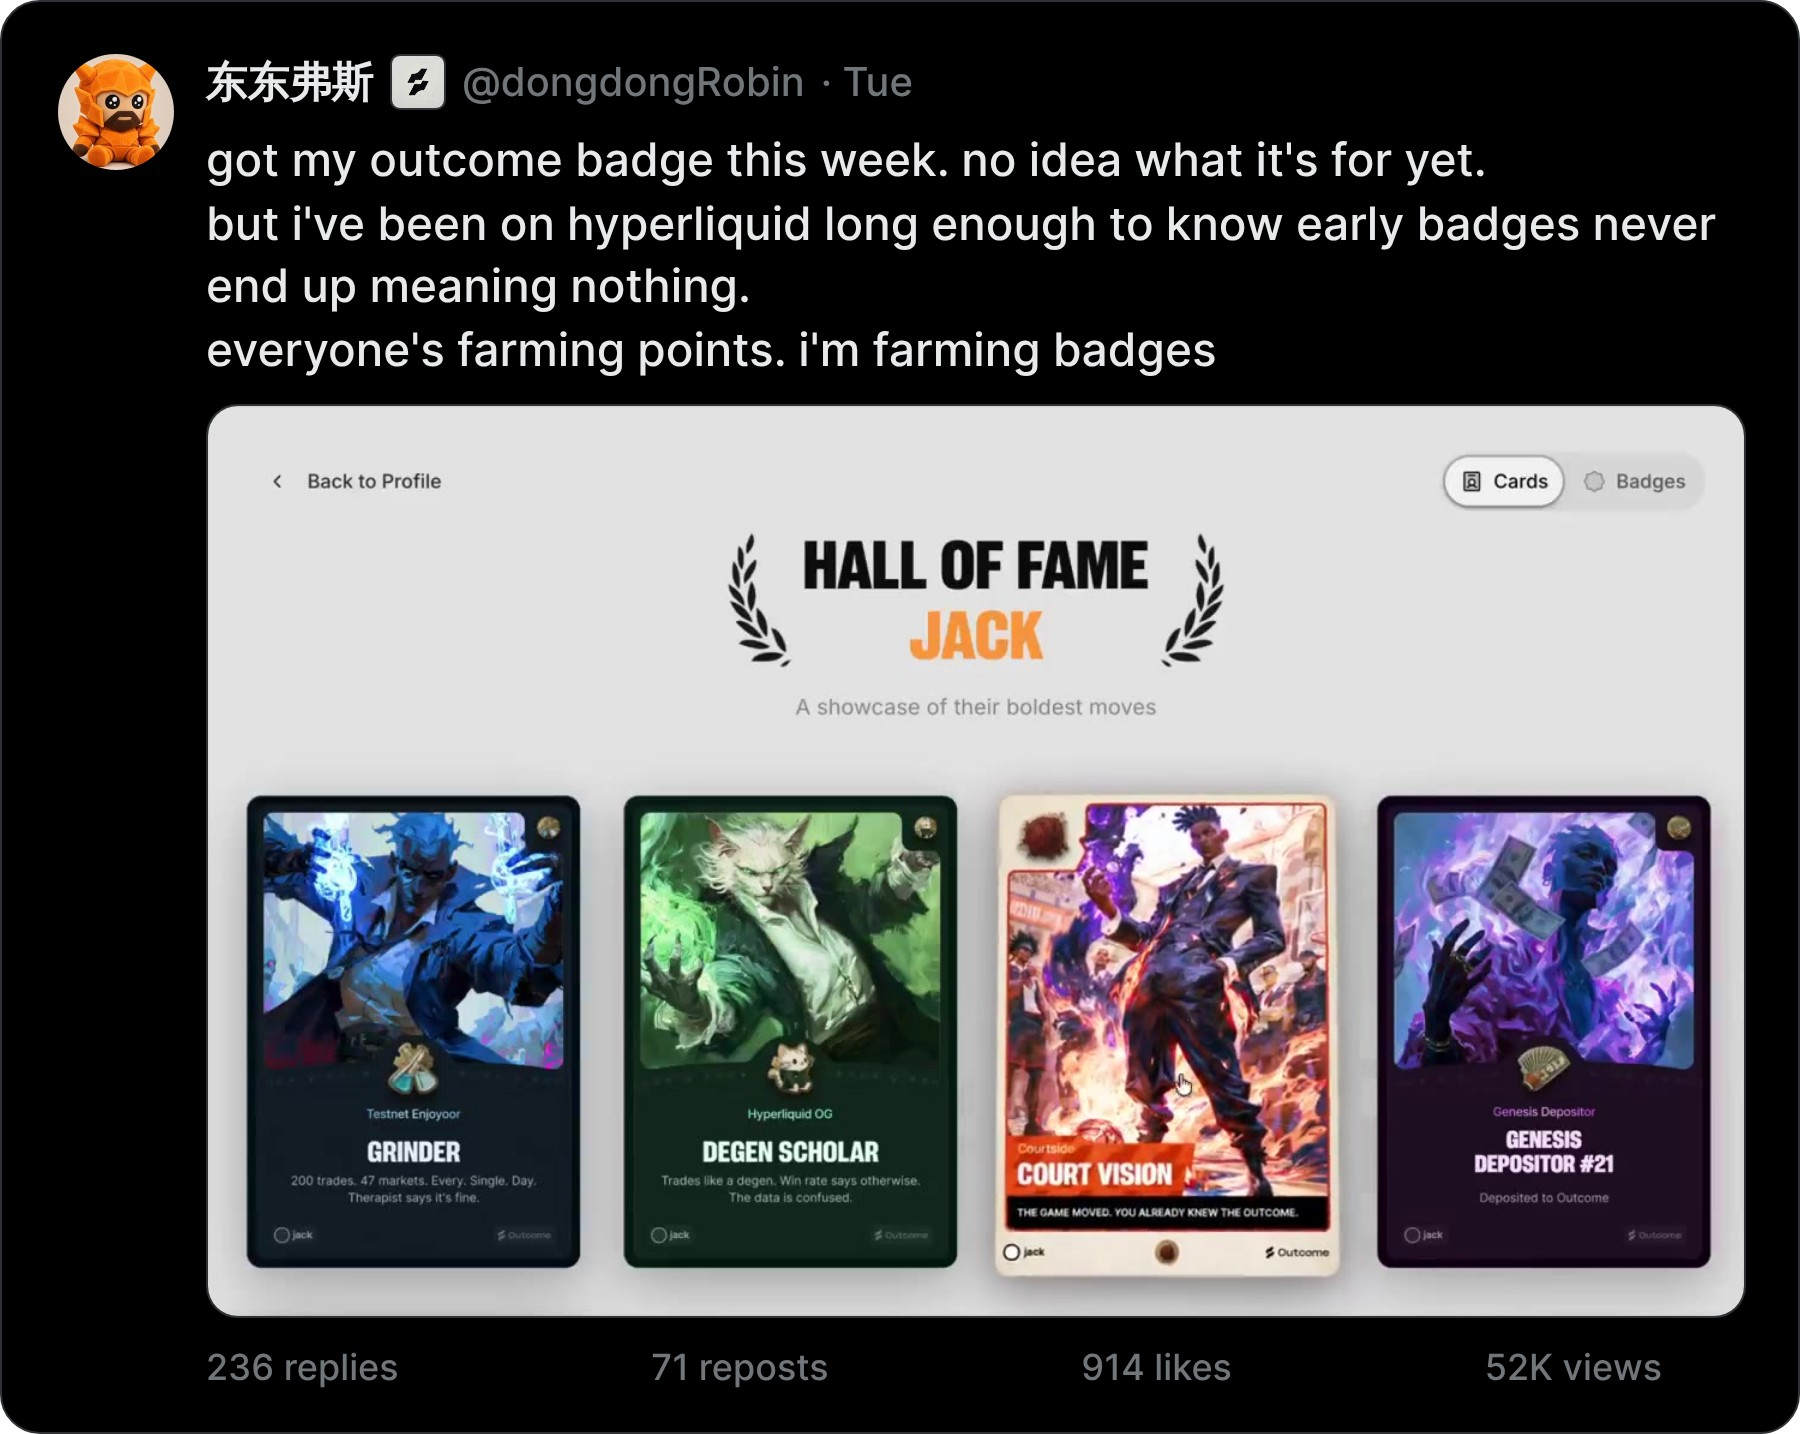
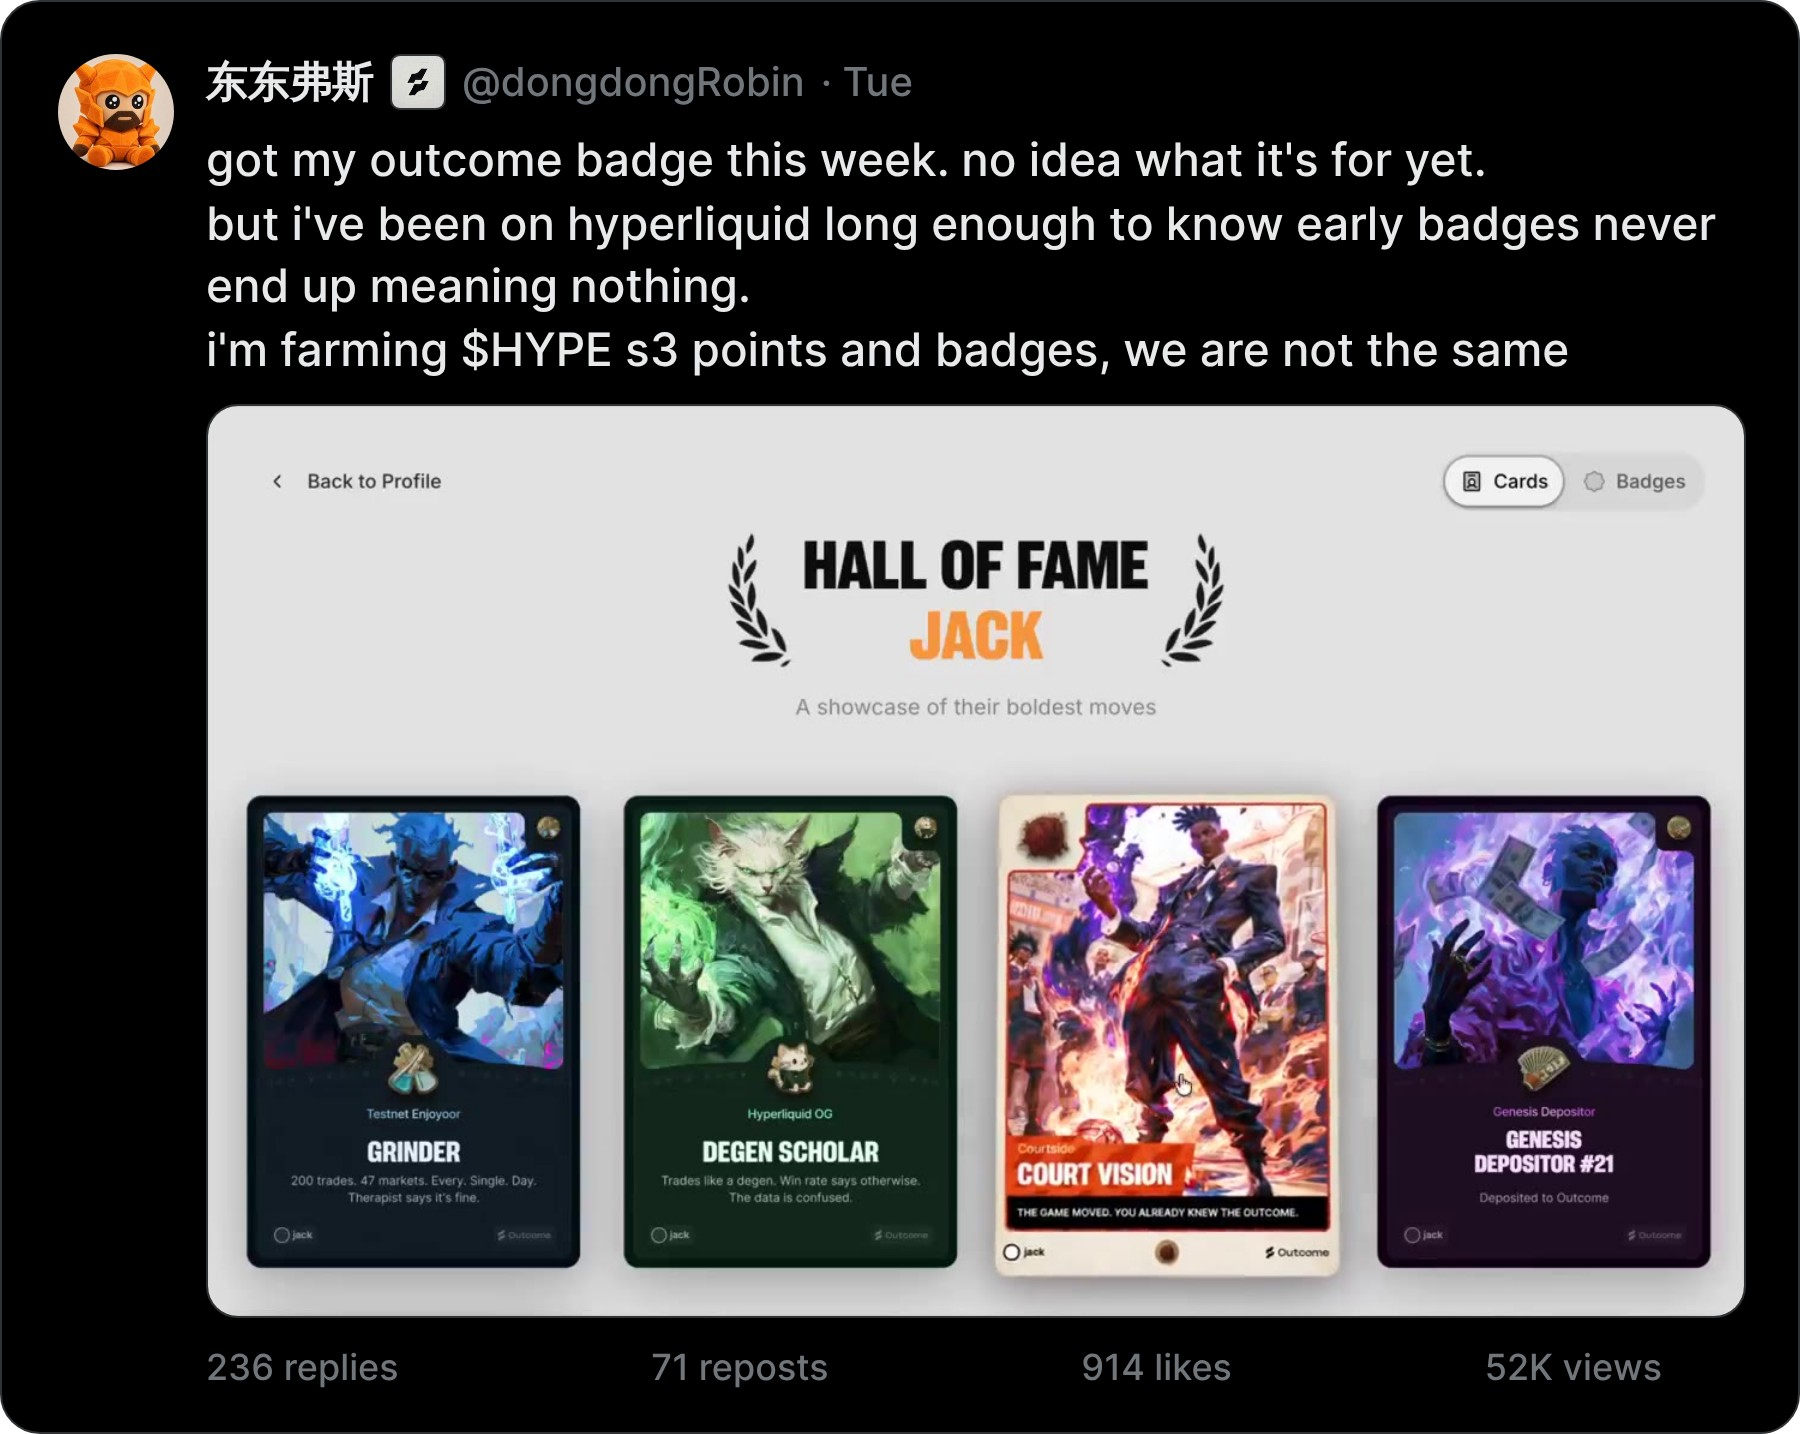
Community decks: HYPE S3 points and badges line
Claude-Session: https://claude.ai/code/session_014PU9ujy91VW7m4JZPWrTgt

Changed region(s): [[0.1244, 0.2148, 0.8711, 0.2762]]

diff --git a/deck/obesepotato_hl/index.html b/deck/obesepotato_hl/index.html
@@ -113,7 +113,7 @@ section img[src$="wm.png"]{pointer-events:none}
 <h2 style="font-family:'PP Neue Corp Narrow', Impact, sans-serif;font-weight:800;font-size:110px;line-height:0.88;text-transform:uppercase;color:#F5F8FF">Your voice. Your words.</h2>
 </div>
 <div style="display:flex;gap:64px;align-items:flex-start">
-<img src="/deck/obesepotato_hl/post_peek1.jpg" alt="Mock post by obese.potato: got my outcome badge this week, no idea what it’s for yet, early badges never end up meaning nothing, everyone’s farming points, i’m farming badges, with the Hall of Fame cards" style="width:736px;height:588px;object-fit:contain;border-radius:20px">
+<img src="/deck/obesepotato_hl/post_peek1.jpg" alt="Mock post by obese.potato: got my outcome badge this week, no idea what it’s for yet, early badges never end up meaning nothing, i’m farming $HYPE s3 points and badges, we are not the same, with the Hall of Fame cards" style="width:736px;height:588px;object-fit:contain;border-radius:20px">
 <img src="/deck/obesepotato_hl/post_peek2.jpg" alt="Mock post by obese.potato quoting Outcome’s Anthropic IPO strategies post: been running exactly this since the s-1 dropped, already locked in 30% on the anthropic ipo before it has started trading, still longing it naked? enjoy the coin flip" style="width:736px;height:588px;object-fit:contain;border-radius:20px">
 </div>
 <img src="/deck/_shared/logo_light.png" alt="Outcome" style="position:absolute;left:128px;bottom:64px;width:150px;height:34px;object-fit:contain">

diff --git a/deck/dongdongrobin/index.html b/deck/dongdongrobin/index.html
@@ -113,7 +113,7 @@ section img[src$="wm.png"]{pointer-events:none}
 <h2 style="font-family:'PP Neue Corp Narrow', Impact, sans-serif;font-weight:800;font-size:110px;line-height:0.88;text-transform:uppercase;color:#F5F8FF">Your voice. Your words.</h2>
 </div>
 <div style="display:flex;gap:64px;align-items:flex-start">
-<img src="/deck/dongdongrobin/post_peek1.jpg" alt="Mock post by 东东弗斯: got my outcome badge this week, no idea what it’s for yet, early badges never end up meaning nothing, everyone’s farming points, i’m farming badges, with the Hall of Fame cards" style="width:736px;height:588px;object-fit:contain;border-radius:20px">
+<img src="/deck/dongdongrobin/post_peek1.jpg" alt="Mock post by 东东弗斯: got my outcome badge this week, no idea what it’s for yet, early badges never end up meaning nothing, i’m farming $HYPE s3 points and badges, we are not the same, with the Hall of Fame cards" style="width:736px;height:588px;object-fit:contain;border-radius:20px">
 <img src="/deck/dongdongrobin/post_peek2.jpg" alt="Mock post by 东东弗斯 quoting Outcome’s Anthropic IPO strategies post: been running exactly this since the s-1 dropped, already locked in 30% on the anthropic ipo before it has started trading, still longing it naked? enjoy the coin flip" style="width:736px;height:588px;object-fit:contain;border-radius:20px">
 </div>
 <img src="/deck/_shared/logo_light.png" alt="Outcome" style="position:absolute;left:128px;bottom:64px;width:150px;height:34px;object-fit:contain">

diff --git a/deck/hypeconomist/index.html b/deck/hypeconomist/index.html
@@ -113,7 +113,7 @@ section img[src$="wm.png"]{pointer-events:none}
 <h2 style="font-family:'PP Neue Corp Narrow', Impact, sans-serif;font-weight:800;font-size:110px;line-height:0.88;text-transform:uppercase;color:#F5F8FF">Your voice. Your words.</h2>
 </div>
 <div style="display:flex;gap:64px;align-items:flex-start">
-<img src="/deck/hypeconomist/post_peek1.jpg" alt="Mock post by HYPEconomist: got my outcome badge this week, no idea what it’s for yet, early badges never end up meaning nothing, everyone’s farming points, i’m farming badges, with the Hall of Fame cards" style="width:736px;height:588px;object-fit:contain;border-radius:20px">
+<img src="/deck/hypeconomist/post_peek1.jpg" alt="Mock post by HYPEconomist: got my outcome badge this week, no idea what it’s for yet, early badges never end up meaning nothing, i’m farming $HYPE s3 points and badges, we are not the same, with the Hall of Fame cards" style="width:736px;height:588px;object-fit:contain;border-radius:20px">
 <img src="/deck/hypeconomist/post_peek2.jpg" alt="Mock post by HYPEconomist quoting Outcome’s Anthropic IPO strategies post: been running exactly this since the s-1 dropped, already locked in 30% on the anthropic ipo before it has started trading, still longing it naked? enjoy the coin flip" style="width:736px;height:588px;object-fit:contain;border-radius:20px">
 </div>
 <img src="/deck/_shared/logo_light.png" alt="Outcome" style="position:absolute;left:128px;bottom:64px;width:150px;height:34px;object-fit:contain">

diff --git a/deck/buyingvol/index.html b/deck/buyingvol/index.html
@@ -113,7 +113,7 @@ section img[src$="wm.png"]{pointer-events:none}
 <h2 style="font-family:'PP Neue Corp Narrow', Impact, sans-serif;font-weight:800;font-size:110px;line-height:0.88;text-transform:uppercase;color:#F5F8FF">Your voice. Your words.</h2>
 </div>
 <div style="display:flex;gap:64px;align-items:flex-start">
-<img src="/deck/buyingvol/post_peek1.jpg" alt="Mock post by That boiii: got my outcome badge this week, no idea what it’s for yet, early badges never end up meaning nothing, everyone’s farming points, i’m farming badges, with the Hall of Fame cards" style="width:736px;height:588px;object-fit:contain;border-radius:20px">
+<img src="/deck/buyingvol/post_peek1.jpg" alt="Mock post by That boiii: got my outcome badge this week, no idea what it’s for yet, early badges never end up meaning nothing, i’m farming $HYPE s3 points and badges, we are not the same, with the Hall of Fame cards" style="width:736px;height:588px;object-fit:contain;border-radius:20px">
 <img src="/deck/buyingvol/post_peek2.jpg" alt="Mock post by That boiii quoting Outcome’s Anthropic IPO strategies post: been running exactly this since the s-1 dropped, already locked in 30% on the anthropic ipo before it has started trading, still longing it naked? enjoy the coin flip" style="width:736px;height:588px;object-fit:contain;border-radius:20px">
 </div>
 <img src="/deck/_shared/logo_light.png" alt="Outcome" style="position:absolute;left:128px;bottom:64px;width:150px;height:34px;object-fit:contain">

diff --git a/deck/pangboygg/index.html b/deck/pangboygg/index.html
@@ -113,7 +113,7 @@ section img[src$="wm.png"]{pointer-events:none}
 <h2 style="font-family:'PP Neue Corp Narrow', Impact, sans-serif;font-weight:800;font-size:110px;line-height:0.88;text-transform:uppercase;color:#F5F8FF">Your voice. Your words.</h2>
 </div>
 <div style="display:flex;gap:64px;align-items:flex-start">
-<img src="/deck/pangboygg/post_peek1.jpg" alt="Mock post by pangboy.hl: got my outcome badge this week, no idea what it’s for yet, early badges never end up meaning nothing, everyone’s farming points, i’m farming badges, with the Hall of Fame cards" style="width:736px;height:588px;object-fit:contain;border-radius:20px">
+<img src="/deck/pangboygg/post_peek1.jpg" alt="Mock post by pangboy.hl: got my outcome badge this week, no idea what it’s for yet, early badges never end up meaning nothing, i’m farming $HYPE s3 points and badges, we are not the same, with the Hall of Fame cards" style="width:736px;height:588px;object-fit:contain;border-radius:20px">
 <img src="/deck/pangboygg/post_peek2.jpg" alt="Mock post by pangboy.hl quoting Outcome’s Anthropic IPO strategies post: been running exactly this since the s-1 dropped, already locked in 30% on the anthropic ipo before it has started trading, still longing it naked? enjoy the coin flip" style="width:736px;height:588px;object-fit:contain;border-radius:20px">
 </div>
 <img src="/deck/_shared/logo_light.png" alt="Outcome" style="position:absolute;left:128px;bottom:64px;width:150px;height:34px;object-fit:contain">

diff --git a/deck/enesonchain/index.html b/deck/enesonchain/index.html
@@ -113,7 +113,7 @@ section img[src$="wm.png"]{pointer-events:none}
 <h2 style="font-family:'PP Neue Corp Narrow', Impact, sans-serif;font-weight:800;font-size:110px;line-height:0.88;text-transform:uppercase;color:#F5F8FF">Your voice. Your words.</h2>
 </div>
 <div style="display:flex;gap:64px;align-items:flex-start">
-<img src="/deck/enesonchain/post_peek1.jpg" alt="Mock post by enes.hl: got my outcome badge this week, no idea what it’s for yet, early badges never end up meaning nothing, everyone’s farming points, i’m farming badges, with the Hall of Fame cards" style="width:736px;height:588px;object-fit:contain;border-radius:20px">
+<img src="/deck/enesonchain/post_peek1.jpg" alt="Mock post by enes.hl: got my outcome badge this week, no idea what it’s for yet, early badges never end up meaning nothing, i’m farming $HYPE s3 points and badges, we are not the same, with the Hall of Fame cards" style="width:736px;height:588px;object-fit:contain;border-radius:20px">
 <img src="/deck/enesonchain/post_peek2.jpg" alt="Mock post by enes.hl quoting Outcome’s Anthropic IPO strategies post: been running exactly this since the s-1 dropped, already locked in 30% on the anthropic ipo before it has started trading, still longing it naked? enjoy the coin flip" style="width:736px;height:588px;object-fit:contain;border-radius:20px">
 </div>
 <img src="/deck/_shared/logo_light.png" alt="Outcome" style="position:absolute;left:128px;bottom:64px;width:150px;height:34px;object-fit:contain">

diff --git a/deck/vexter/index.html b/deck/vexter/index.html
@@ -113,7 +113,7 @@ section img[src$="wm.png"]{pointer-events:none}
 <h2 style="font-family:'PP Neue Corp Narrow', Impact, sans-serif;font-weight:800;font-size:110px;line-height:0.88;text-transform:uppercase;color:#F5F8FF">Your voice. Your words.</h2>
 </div>
 <div style="display:flex;gap:64px;align-items:flex-start">
-<img src="/deck/vexter/post_peek1.jpg" alt="Mock post by 0xVexter: got my outcome badge this week, no idea what it’s for yet, early badges never end up meaning nothing, everyone’s farming points, i’m farming badges, with the Hall of Fame cards" style="width:736px;height:588px;object-fit:contain;border-radius:20px">
+<img src="/deck/vexter/post_peek1.jpg" alt="Mock post by 0xVexter: got my outcome badge this week, no idea what it’s for yet, early badges never end up meaning nothing, i’m farming $HYPE s3 points and badges, we are not the same, with the Hall of Fame cards" style="width:736px;height:588px;object-fit:contain;border-radius:20px">
 <img src="/deck/vexter/post_peek2.jpg" alt="Mock post by 0xVexter quoting Outcome’s Anthropic IPO strategies post: been running exactly this since the s-1 dropped, already locked in 30% on the anthropic ipo before it has started trading, still longing it naked? enjoy the coin flip" style="width:736px;height:588px;object-fit:contain;border-radius:20px">
 </div>
 <img src="/deck/_shared/logo_light.png" alt="Outcome" style="position:absolute;left:128px;bottom:64px;width:150px;height:34px;object-fit:contain">

diff --git a/deck/mbxxvv/index.html b/deck/mbxxvv/index.html
@@ -113,7 +113,7 @@ section img[src$="wm.png"]{pointer-events:none}
 <h2 style="font-family:'PP Neue Corp Narrow', Impact, sans-serif;font-weight:800;font-size:110px;line-height:0.88;text-transform:uppercase;color:#F5F8FF">Your voice. Your words.</h2>
 </div>
 <div style="display:flex;gap:64px;align-items:flex-start">
-<img src="/deck/mbxxvv/post_peek1.jpg" alt="Mock post by MB.hl: got my outcome badge this week, no idea what it’s for yet, early badges never end up meaning nothing, everyone’s farming points, i’m farming badges, with the Hall of Fame cards" style="width:736px;height:588px;object-fit:contain;border-radius:20px">
+<img src="/deck/mbxxvv/post_peek1.jpg" alt="Mock post by MB.hl: got my outcome badge this week, no idea what it’s for yet, early badges never end up meaning nothing, i’m farming $HYPE s3 points and badges, we are not the same, with the Hall of Fame cards" style="width:736px;height:588px;object-fit:contain;border-radius:20px">
 <img src="/deck/mbxxvv/post_peek2.jpg" alt="Mock post by MB.hl quoting Outcome’s Anthropic IPO strategies post: been running exactly this since the s-1 dropped, already locked in 30% on the anthropic ipo before it has started trading, still longing it naked? enjoy the coin flip" style="width:736px;height:588px;object-fit:contain;border-radius:20px">
 </div>
 <img src="/deck/_shared/logo_light.png" alt="Outcome" style="position:absolute;left:128px;bottom:64px;width:150px;height:34px;object-fit:contain">
